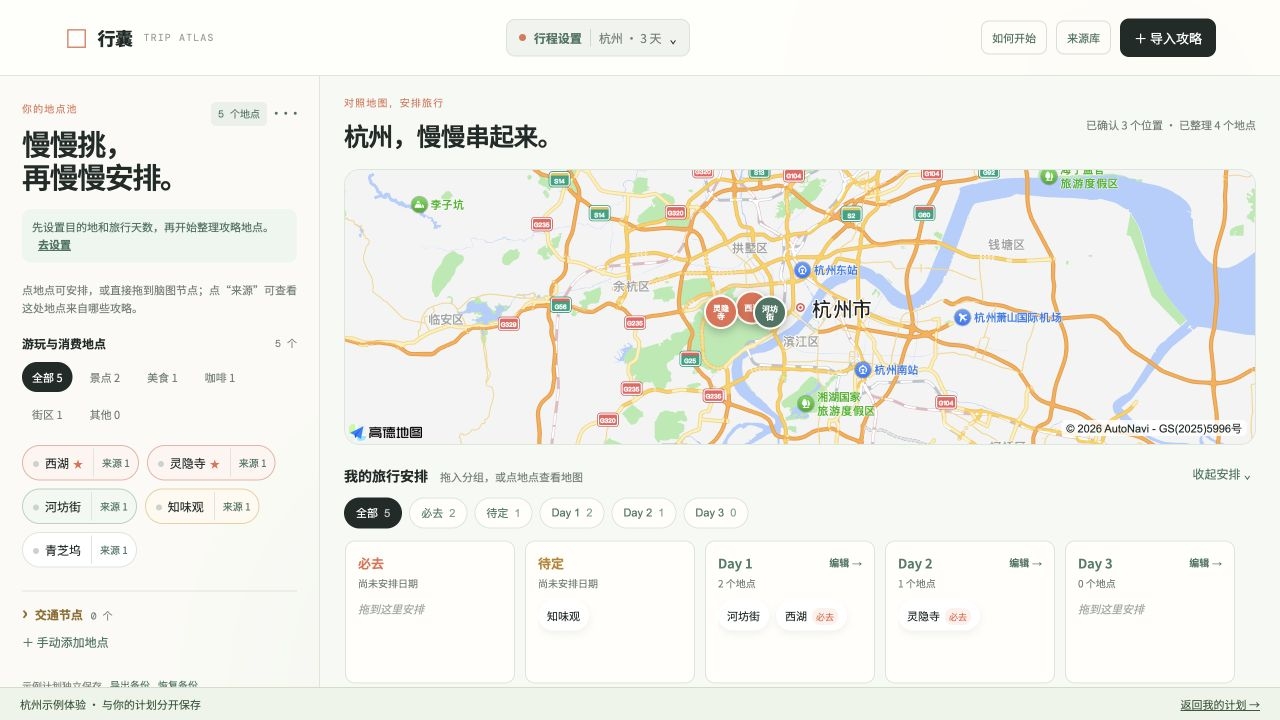
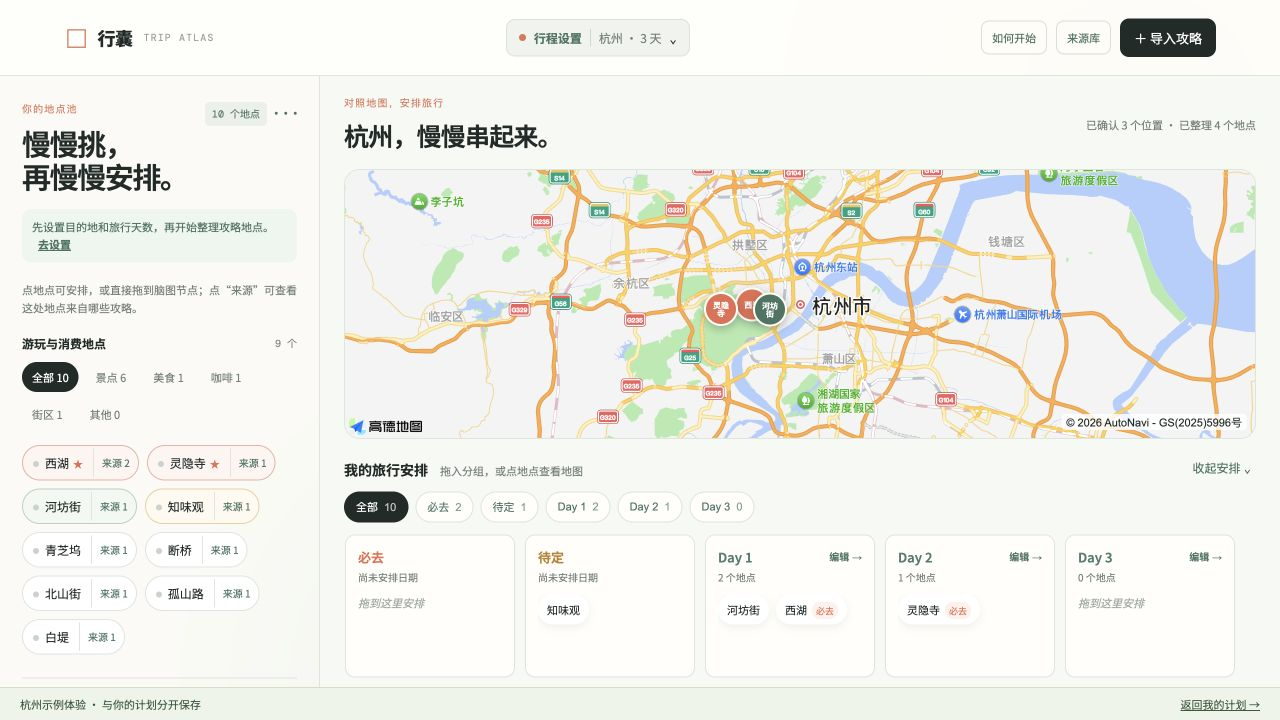
docs: record verified release scope and publication blockers

diff --git a/memory-bank/implementation-plan.md b/memory-bank/implementation-plan.md
@@ -6,6 +6,8 @@
 
 验收：首次体验可走通导入、候选确认、位置确认和按天整理；示例不会覆盖用户计划；未配置模型时明确使用规则；服务端密钥不入 Git 或前端；测试和构建通过；公开链接仅在实际部署成功后交付。
 
+本轮状态：代码与本地 Git 提交、16 项自动测试、类型检查、构建、桌面流程、截图和文档已完成。GitHub/Vercel 发布及线上地图域名仍待登录与配置；手机视口实测待完成。模型未配置属于用户主动选择，后续可接入，不能当成已验证的 AI 能力。
+
 ## 当前里程碑
 
 先完成不依赖地图 Key 或小红书内容授权的本地闭环：用户选择城市，粘贴攻略文字，确认 POI，将其整理进标签池与旅行脑图，并在刷新后恢复计划。
@@ -28,9 +30,9 @@
 
 ### 3. 创建旅行计划
 
-提供中国大陆城市名称与 2–5 天选择；创建或修改计划时更新根节点标题。缩短天数时，把超出日期的 POI 转入待定。
+提供中国大陆城市名称与 2–5 天选择；创建或修改计划时更新根节点标题。缩短天数时，把超出日期的 POI 转为未安排，保留其优先级。
 
-**验收：** 用户能创建一个城市计划；从 4 天改为 2 天后，原 Day 3 和 Day 4 的地点仍存在于待定。
+**验收：** 用户能创建一个城市计划；从 4 天改为 2 天后，原 Day 3 和 Day 4 的地点仍存在于未安排地点池，原优先级不变。
 
 ### 4. 文字攻略导入与候选 POI 识别
 

diff --git a/memory-bank/progress.md b/memory-bank/progress.md
@@ -36,5 +36,6 @@
 - AI：服务端支持 OpenAI 兼容模型接口、原文证据与结果校验；无 Key 时默认规则识别且界面明确禁用 AI。模拟上游测试通过，不代表真实模型准确率或时延已验证。
 - 数据一致性：地图 POI ID 合并保留来源；删除来源不误删无关地点；交通节点失效只清节点引用并保留方式/分钟数；更换城市清除旧坐标确认状态。
 - 已准备：README、项目案例、部署说明、四张真实界面截图、GitHub Actions 配置和密钥检查脚本。
+- 本地 Git 仓库和首个发布提交已建立；`.env.local`、依赖和构建输出被忽略。密钥扫描通过，未发现本地服务端密钥值进入源码或前端构建。
 - 验证：16 项 Node 自动测试、TypeScript 检查与生产构建通过。桌面示例验证手动添加、文字候选、交通识别、导入去重、单日编辑与在线底图；个人原计划未覆盖。手机视口工具未实际生效，移动端仍需实测。
 - 外部待办：GitHub 登录（当前停留登录页）、远程仓库发布、Vercel 登录/生产环境变量/高德域名验证。未取得公开地址、真实用户指标或真实模型验证结果。

diff --git a/memory-bank/tech-stack.md b/memory-bank/tech-stack.md
@@ -40,7 +40,7 @@ src/
 ## 3. 数据与保存策略
 
 - 浏览器仅保存用户已确认加入计划的 POI、来源记录、地图确认信息和安排状态；不缓存或复制全国全量 POI 数据。
-- 来源以独立“笔记记录”保存，POI 仅保存关联的来源 ID；这样一篇攻略可关联多个 POI，来源库与 POI 详情也能双向展示同一份信息。
+- 当前实现同时保存独立来源库与 POI 内来源记录，通过来源字段保持关联；一篇攻略可关联多个 POI。未来可迁移到仅存来源 ID 的规范化结构，目前不宣称已完成此迁移。
 - `localStorage` 的根键采用版本化命名，例如 `trip-atlas:v1:plan`，便于未来升级结构。
 - 写入前校验 `TravelPlan` 与 POI 的必要字段；读取失败或旧版本不兼容时，保留原始内容并提示用户重建，而不静默覆盖。
 - 地图唯一 POI ID、经纬度和地址仅在用户确认候选后保存；交通节点与游玩地点共用同一确认与保存策略，并额外保存交通种类。
